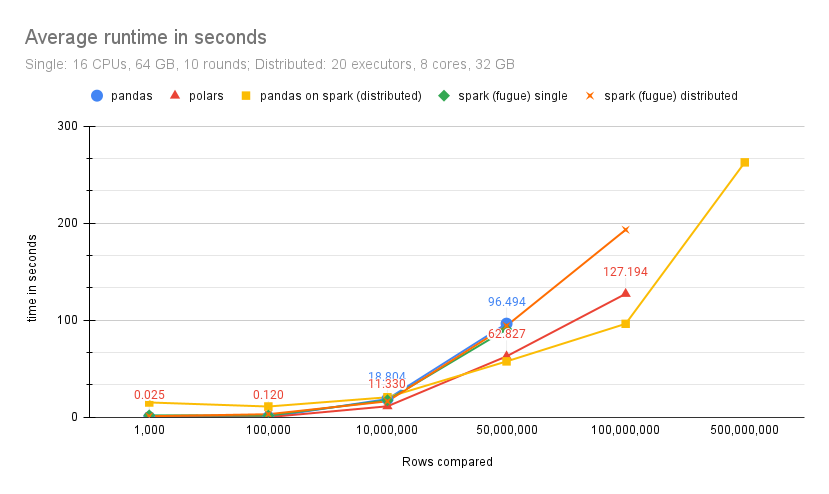
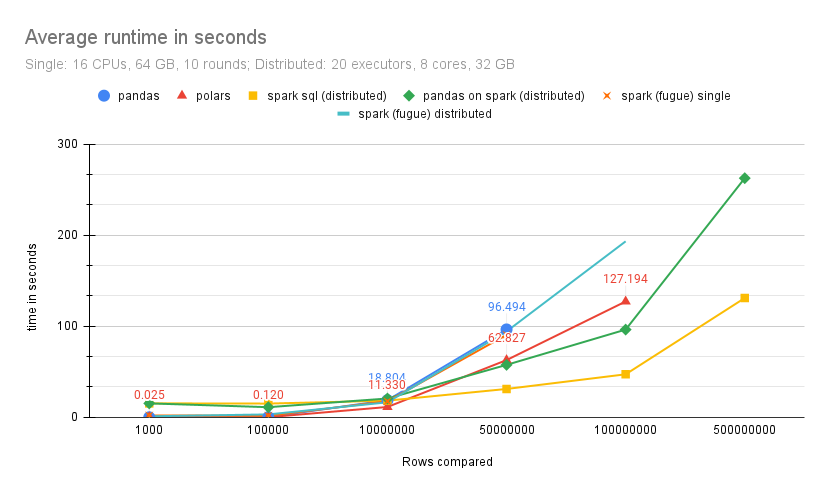
updating benchmarks with pyspark dataframe

diff --git a/docs/source/benchmark.rst b/docs/source/benchmark.rst
@@ -39,17 +39,17 @@ The data (base, and compare) we generated was purely synthetic consisting of 10 
 
 Table of mean benchmark times in seconds:
 
-===========   =======   =======    ===============   ===============   ===============        
-Number of     pandas    polars     pandas on spark   spark (fugue)     spark (fugue) 
-rows                               (distributed)     (single)          (distributed)        
-===========   =======   =======    ===============   ===============   ===============       
-1000          0.025     0.025      15.2838           2.041             1.109              
-100,000       0.196     0.120      11.1113           1.743             3.175                 
-10,000,000    18.804    11.330     20.6274           17.560            16.455                           
-50,000,000    96.494    62.827     57.5735           90.578            94.304                          
-100,000,000   DNR       127.194    96.3204           DNR               193.234          
-500,000,000   DNR       DNR        262.6094          DNR               DNR            
-===========   =======   =======    ===============   ===============   ===============        
+===========   =======   =======    ===============   ===============   ===============   =============== 
+Number of     pandas    polars     spark sql         pandas on spark   spark (fugue)     spark (fugue)   
+rows                               (distributed)     (distributed)     (single)          (distributed)   
+===========   =======   =======    ===============   ===============   ===============   =============== 
+1000          0.025     0.025      15.3112           15.2838           2.041             1.109           
+100,000       0.196     0.120      15.0701           11.1113           1.743             3.175           
+10,000,000    18.804    11.330     18.2763           20.6274           17.560            16.455          
+50,000,000    96.494    62.827     31.1257           57.5735           90.578            94.304          
+100,000,000   DNR       127.194    47.2185           96.3204           DNR               193.234         
+500,000,000   DNR       DNR        130.9814          262.6094          DNR               DNR             
+===========   =======   =======    ===============   ===============   ===============   =============== 
 
 .. note:: DNR = Did not run
 
@@ -66,5 +66,9 @@ TLDR
 
   * in the 100 Million + range is starts to shine, and due to its distributed 
     nature it can process vast amounts of data
+
+* The Spark SQL implementaion seems to be the most performant on very large datasets
+  
+  * It makes the Pandas on Spark implementation obsolete moving forward.
 
 * The native Pandas version is best for small and medium data

diff --git a/README.md b/README.md
@@ -40,7 +40,7 @@ pip install datacompy[ray]
 ### Legacy Spark Deprecation
 
 With version ``v0.12.0`` the original ``SparkCompare`` was replaced with a 
-Pandas on Spark implementation The original ``SparkCompare`` implementation differs 
+Pandas on Spark implementation. The original ``SparkCompare`` implementation differs 
 from all the other native implementations. To align the API better,  and keep behaviour 
 consistent we are deprecating the original ``SparkCompare`` into a new module ``LegacySparkCompare``
 
@@ -87,8 +87,8 @@ with the Pandas on Spark implementation. Spark plans to support Pandas 2 in [Spa
 ## Supported backends
 
 - Pandas: ([See documentation](https://capitalone.github.io/datacompy/pandas_usage.html))
-- Spark (Pandas on Spark API): ([See documentation](https://capitalone.github.io/datacompy/spark_usage.html))
-- Polars (Experimental): ([See documentation](https://capitalone.github.io/datacompy/polars_usage.html))
+- Spark: ([See documentation](https://capitalone.github.io/datacompy/spark_usage.html))
+- Polars: ([See documentation](https://capitalone.github.io/datacompy/polars_usage.html))
 - Fugue is a Python library that provides a unified interface for data processing on Pandas, DuckDB, Polars, Arrow,
   Spark, Dask, Ray, and many other backends. DataComPy integrates with Fugue to provide a simple way to compare data
   across these backends. Please note that Fugue will use the Pandas (Native) logic at its lowest level

diff --git a/docs/source/spark_usage.rst b/docs/source/spark_usage.rst
@@ -25,7 +25,8 @@ For both ``SparkSQLCompare`` and ``SparkPandasCompare``
 
 - ``on_index`` is not supported.
 - Joining is done using ``<=>`` which is the equality test that is safe for null values.
-
+- ``SparkPandasCompare`` compares ``pyspark.pandas.DataFrame``'s
+- ``SparkSQLCompare`` compares ``pyspark.sql.DataFrame``'s
 
 Supported Version
 ------------------
